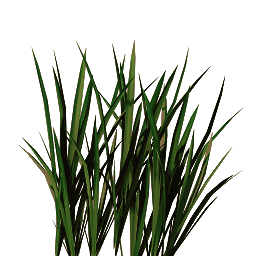
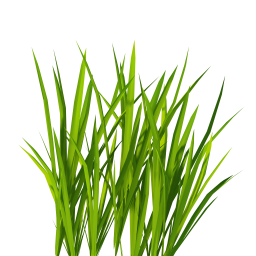
grass is being affected by modificators
Modificators are entities which have a ModificatorComponent.
The environmentSystem send the modificators registered to the entities which have a EnvironmentAffectedComponent in order the proper shader can use this information.
In this case, grass is using this information to move grass by a modificatorComponent on the Player entity.

diff --git a/Test.cpp b/Test.cpp
@@ -67,6 +67,7 @@
 #include "src/resources/materials/effects/MaterialEffectDepthTexture.h"
 #include "src/resources/materials/effects/MaterialEffectFloat2.h"
 #include "src/resources/materials/effects/MaterialEffectFloat3.h"
+#include "src/resources/materials/effects/MaterialEffectFloat3Array.h"
 
 #include "src/resources/entities/Terrain.h"
 #include "src/resources/entities/Player.h"
@@ -102,6 +103,7 @@
 #include "src/resources/components/DebugComponent.h"
 #include "src/resources/components/SpacePartitionComponent.h"
 #include "src/resources/components/EnvironmentAffectedComponent.h"
+#include "src/resources/components/EnvironmentModificatorComponent.h"
 
 #include "src/resources/command/ICommand.h"
 #include "src/resources/command/commands/RiseTerrainCommand.h"
@@ -140,7 +142,7 @@ enum Configuration
 	RELEASE
 };
 
-Configuration mConfiguration = FLAT;
+Configuration mConfiguration = RELEASE;
 
 int movx[] = { 1, 1, 0, -1, -1, -1, 0, 1 };
 int movy[] = { 0, 1, 1, 1, 0, -1, -1, -1 };
@@ -560,6 +562,7 @@ void CreatePoints()
 	material->AddEffect(new MaterialEffectFloat2(glm::vec2(4.0f, 4.0f)));
 	material->AddEffect(new MaterialEffectShadowProperties(0));
 	material->AddEffect(new MaterialEffectFloat(0.0));
+	material->AddEffect(new MaterialEffectFloat3Array());
 	material->AddEffect(new MaterialEffectParticle(static_cast<Texture*>(mEngine.GetTexture("grass2")),
 		mEngine.GetTexture("depth_texture"),
 		glm::vec2(mEngine.GetScreenWidth(), mEngine.GetScreenHeight()),
@@ -570,9 +573,11 @@ void CreatePoints()
 	material->AddEffect(new MaterialEffectNormalTexture(windTexture, 1.0f));
 
 	PointsPatch* pointsPatch = new PointsPatch(	new Transformation(glm::vec3(0.0f), glm::vec3(0.0f), glm::vec3(1.0f)), 
-												material, mTerrain, mWaterHeight /*+ 0.2f*/, mWaterHeight + 0.8f, 50.0f, 50.0f, 200.0f);
+												material, mTerrain, mWaterHeight /*+ 0.2f*/, mWaterHeight + 0.8f, 50.0f, 50.0f, 100.0f);
 
-	pointsPatch->AddComponent(new EnvironmentAffectedComponent());
+	EnvironmentAffectedComponent* environmentComponent = new EnvironmentAffectedComponent();
+	environmentComponent->SetAffectedByWind(true);
+	pointsPatch->AddComponent(environmentComponent);
 	mScene->AddEntity(pointsPatch);
 	
 	/*material = mEngine.CreateMaterial("grass3_material", shader);
@@ -589,7 +594,9 @@ void CreatePoints()
 
 	pointsPatch = new PointsPatch(	new Transformation(glm::vec3(0.0f, 0.0f, 0.0f), glm::vec3(0.0f), glm::vec3(1.0f)),
 									material, mTerrain, mWaterHeight - 0.1f, mWaterHeight + 0.2f, 50.0f, 50.0f, 50.0f);
-	pointsPatch->AddComponent(new EnvironmentAffectedComponent());
+	environmentComponent = new EnvironmentAffectedComponent();
+	environmentComponent->SetAffectedByWind(true);
+	pointsPatch->AddComponent(environmentComponent);
 	mScene->AddEntity(pointsPatch);*/
 }
 
@@ -883,7 +890,7 @@ void CreateTextTest()
 			texts[i], false, glm::vec4(1.0f, 1.0f, 1.0f, 1.0f), 1, 1, false);
 		mScene->AddEntity(mText[i]);
 	}
-	float x = 0.0f;
+	/*float x = 0.0f;
 	float z = 0.0f;
 	float height = mTerrain->GetHeight(glm::vec2(x, z)) + 1.0f;
 
@@ -900,7 +907,7 @@ void CreateTextTest()
 	Text* mTestText = new Text(	new Transformation(glm::vec3(x, height, z), glm::vec3(0.0f), glm::vec3(0.01f)),
 								material3D, font,
 								"Origin", true, glm::vec4(0.0f, 0.0f, 1.0f, 1.0f), 1, 1, false);
-	mScene->AddEntity(mTestText);
+	mScene->AddEntity(mTestText);*/
 	/*
 	x = 10.0f;
 	z = 10.0f;
@@ -984,6 +991,7 @@ void CreatePlayer()
 	mPlayer->AddComponent(new EnergyWallCollisionComponent());
 	IRenderer* boundingBoxRenderer = new WireframeRenderer(mEngine.GetModel("cube"), mEngine.GetMaterial(MaterialsLibrary::WIREFRAME_MATERIAL_NAME));
 	mPlayer->AddComponent(new DebugComponent(boundingBoxRenderer));
+	mPlayer->AddComponent(new EnvironmentModificatorComponent());
 	mScene->AddEntity(mPlayer);
 }
 

diff --git a/src/resources/shaders/GrassShader.cpp b/src/resources/shaders/GrassShader.cpp
@@ -8,7 +8,7 @@
 #include "../materials/effects/MaterialEffectFloat.h"
 #include "../materials/effects/MaterialEffectFloat2.h"
 #include "../materials/effects/MaterialEffectShadowProperties.h"
-#include "../materials/effects/MaterialEffectFloat3.h"
+#include "../materials/effects/MaterialEffectFloat3Array.h"
 #include "../materials/effects/MaterialEffectParticle.h"
 #include "../textures/ITexture.h"
 
@@ -42,6 +42,8 @@ const std::string ATTRIBUTE_TEXTURE_WIND("textureWind");
 const std::string ATTRIBUTE_DEPTH_TEXTURE("depthTexture");
 const std::string ATTRIBTUTE_SCREEN_SIZE("screenSize");
 
+const std::string ATTRIBUTE_WIND_MODIFICATORS_ARRAY("windModificators");
+
 GrassShader::GrassShader() :
 	IShaderProgram(VERTEX_FILE, FRAGMENT_FILE, GEOMETRY_FILE),
 	mLocationModelMatrix(-1),
@@ -60,7 +62,8 @@ GrassShader::GrassShader() :
 	mLocationTimer(-1),
 	mLocationWindDirections(-1),
 	mLocationDepthTexture(-1),
-	mLocationScreenSize(-1)
+	mLocationScreenSize(-1),
+	mLocationWindModificatorsArray(-1)
 {
 }
 
@@ -117,6 +120,12 @@ void GrassShader::LoadData(const ICamera* camera, const Transformation* transfor
 		LoadTexture(mLocationDepthTexture, effectParticle->GetDepthTexture()->GetUnit());
 		LoadVector2(mLocationScreenSize, effectParticle->GetScreenSize());
 	}
+
+	MaterialEffectFloat3Array* effectModificators = material->GetEffect<MaterialEffectFloat3Array>();
+	if (effectModificators != nullptr)
+	{
+		LoadVector3Array(mLocationWindModificatorsArray, effectModificators->GetValues());
+	}
 }
 
 void GrassShader::BindAttributes()
@@ -149,4 +158,6 @@ void GrassShader::GetAllUniformLocations()
 
 	mLocationDepthTexture = GetUniformLocation(ATTRIBUTE_DEPTH_TEXTURE);
 	mLocationScreenSize = GetUniformLocation(ATTRIBTUTE_SCREEN_SIZE);
+
+	mLocationWindModificatorsArray = GetUniformLocation(ATTRIBUTE_WIND_MODIFICATORS_ARRAY);
 }

diff --git a/src/resources/materials/effects/MaterialEffectFloat3Array.cpp b/src/resources/materials/effects/MaterialEffectFloat3Array.cpp
@@ -1,0 +1,40 @@
+#include "stdafx.h"
+#include "MaterialEffectFloat3Array.h"
+#include "../IMaterial.h"
+
+MaterialEffectFloat3Array::MaterialEffectFloat3Array()
+{
+}
+
+MaterialEffectFloat3Array::MaterialEffectFloat3Array(const std::vector<glm::vec3>& values) : mValues(values)
+{
+}
+
+
+MaterialEffectFloat3Array::~MaterialEffectFloat3Array()
+{
+}
+
+void MaterialEffectFloat3Array::SetValues(const std::vector<glm::vec3>& values)
+{
+	mValues = values;
+}
+
+std::vector<glm::vec3>& MaterialEffectFloat3Array::GetValues()
+{
+	return mValues;
+}
+
+void MaterialEffectFloat3Array::CopyValuesFrom(IMaterial* material)
+{
+	MaterialEffectFloat3Array* effect = material->GetEffect<MaterialEffectFloat3Array>();
+	if (effect != nullptr)
+	{
+		mValues = effect->GetValues();
+	}
+}
+
+MaterialEffectFloat3Array* MaterialEffectFloat3Array::DoClone() const
+{
+	return new MaterialEffectFloat3Array(*this);
+}

diff --git a/src/resources/systems/environmentSystem/EnvironmentSystem.h b/src/resources/systems/environmentSystem/EnvironmentSystem.h
@@ -12,9 +12,11 @@ class WindManager;
 class EnvironmentSystem : public BaseVisitable<>, public IGameSceneListener
 {
 	std::vector<GameEntity*> mEntities;
+	std::vector<GameEntity*> mModificators;
 	const Terrain* mTerrain;
 	std::unique_ptr<WindManager> mWindManager;
 	float mTimer;
+	std::vector<glm::vec3> mModificatorsPositions;
 
 public:
 	EnvironmentSystem();
@@ -33,7 +35,10 @@ public:
 private:
 	void AddEntity(GameEntity* entity);
 	void RemoveEntity(GameEntity* entity);
+	void RemoveEntityVector(GameEntity* entity, std::vector<GameEntity*>& vector);
 	bool HasEnvironmentComponents(const GameEntity* entity) const;
+
+	void UpdateModificatorsVector();
 
 	void OnGameEntityAdded(GameEntity* entity) override;
 	void OnGameEntityRemoved(GameEntity* entity) override;

diff --git a/src/resources/materials/effects/MaterialEffectFloat3Array.h b/src/resources/materials/effects/MaterialEffectFloat3Array.h
@@ -1,0 +1,22 @@
+#pragma once
+#include "../IMaterialEffect.h"
+#include <glm/glm.hpp>
+#include <vector>
+
+class MaterialEffectFloat3Array : public IMaterialEffect
+{
+	std::vector<glm::vec3> mValues;
+
+public:
+	MaterialEffectFloat3Array();
+	MaterialEffectFloat3Array(const std::vector<glm::vec3>& values);
+	virtual ~MaterialEffectFloat3Array();
+
+	void SetValues(const std::vector<glm::vec3>& values);
+	std::vector<glm::vec3>& GetValues();
+
+	void CopyValuesFrom(IMaterial* material) override;
+
+	MaterialEffectFloat3Array* DoClone() const override;
+};
+

diff --git a/src/resources/shaders/IShaderProgram.cpp b/src/resources/shaders/IShaderProgram.cpp
@@ -155,6 +155,14 @@ void IShaderProgram::LoadMatrix4(int location, const glm::mat4& value)
 	glUniformMatrix4fv(location, 1, GL_FALSE, &value[0][0]);
 }
 
+void IShaderProgram::LoadVector3Array(int location, std::vector<glm::vec3>& values)
+{
+	if (values.size() > 0)
+	{
+		glUniform3fv(location, values.size(), reinterpret_cast<float*>(&values[0]));
+	}
+}
+
 int IShaderProgram::Load(const std::string& filename, int type)
 {
 		// Create the shaders

diff --git a/src/resources/shaders/IShaderProgram.h b/src/resources/shaders/IShaderProgram.h
@@ -1,5 +1,6 @@
 #pragma once
 #include <string>
+#include <vector>
 #include <glm/glm.hpp>
 
 class IMaterial;
@@ -33,6 +34,7 @@ public:
 	void LoadMatrix4(int location, const glm::mat4& value);
 	void LoadTexture(int location, int unit);
 	void LoadInteger(int location, int value);
+	void LoadVector3Array(int location, std::vector<glm::vec3>& values);
 
 	virtual void BindAttributes() = 0;
 	virtual void GetAllUniformLocations() = 0;

diff --git a/src/resources/components/EnvironmentModificatorComponent.cpp b/src/resources/components/EnvironmentModificatorComponent.cpp
@@ -1,0 +1,17 @@
+#include "stdafx.h"
+#include "EnvironmentModificatorComponent.h"
+
+
+EnvironmentModificatorComponent::EnvironmentModificatorComponent()
+{
+}
+
+
+EnvironmentModificatorComponent::~EnvironmentModificatorComponent()
+{
+}
+
+EnvironmentModificatorComponent* EnvironmentModificatorComponent::DoClone() const
+{
+	return new EnvironmentModificatorComponent(*this);
+}

diff --git a/src/resources/entities/PointsPatch.cpp b/src/resources/entities/PointsPatch.cpp
@@ -51,7 +51,7 @@ void PointsPatch::Create()
 		{
 			vertexs.push_back(glm::vec3(x, y, z));
 			float rotationY = rand() % 360;
-			float scale = 0.4f + (rand() % 10) * (0.4f / 10.0f);
+			float scale = 1.2f + (rand() % 10) * (0.4f / 10.0f);
 			uv.push_back(glm::vec2(glm::radians(rotationY), scale * 0.1));
 		}
 	}

diff --git a/GameConstants.h b/GameConstants.h
@@ -1,6 +1,6 @@
 #pragma once
 static const float PLAYER_UPWARDS_HEIGHT = 2.0f;
-static const float PLAYER_RUN_SPEED = 2.0f;
+static const float PLAYER_RUN_SPEED = 1.0f;
 static const float PLAYER_TURN_SPEED = 0.2f;
 static const float PLAYER_ZOOM_SPEED = 10.0f;
 static const float PLAYER_PITCH = 10.0f;

diff --git a/src/resources/components/EnvironmentModificatorComponent.h b/src/resources/components/EnvironmentModificatorComponent.h
@@ -1,0 +1,11 @@
+#pragma once
+#include "IComponent.h"
+class EnvironmentModificatorComponent : public IComponent
+{
+public:
+	EnvironmentModificatorComponent();
+	virtual ~EnvironmentModificatorComponent();
+
+	EnvironmentModificatorComponent* DoClone() const;
+};
+
